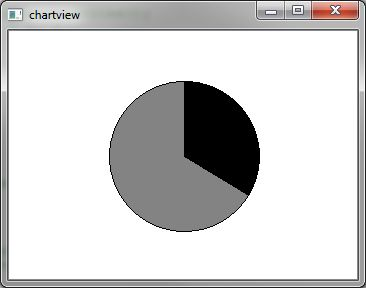
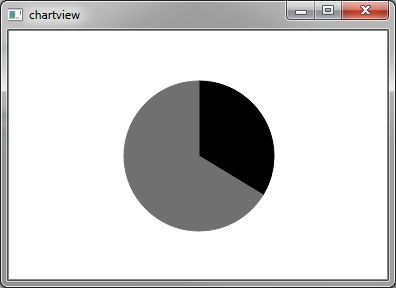
Example on main qdoc page.

diff --git a/example/chartview/main.cpp b/example/chartview/main.cpp
@@ -18,6 +18,7 @@ int main(int argc, char *argv[])
     //! [1]
     // Create chart view
     QChartView *chartView = new QChartView();
+    chartView->setRenderHint(QPainter::Antialiasing);
     // Add series to the chart
     QLineChartSeries *line = new QLineChartSeries();
     line->add(0.0, 0.8);
@@ -33,6 +34,7 @@ int main(int argc, char *argv[])
 
     //! [3]
     // Add pie series
+    // ...
     QPieSeries *pie = new QPieSeries();
     pie->add(3.4, "slice1");
     pie->add(6.7, "slice2");
@@ -41,6 +43,7 @@ int main(int argc, char *argv[])
 
     //! [4]
     // Add scatter series
+    // ...
     QScatterSeries *scatter = new QScatterSeries();
     for (qreal x(0); x < 100; x += 0.5) {
         qreal y = rand() % 100;
@@ -50,6 +53,7 @@ int main(int argc, char *argv[])
     //! [4]
 
     //! [5]
+    // ...
     // Add bar series
     QBarCategory *barCategory = new QBarCategory();
     *barCategory << "Jan"
@@ -65,7 +69,7 @@ int main(int argc, char *argv[])
     //! [5]
 
     QMainWindow w;
-    w.resize(350, 250);
+    w.resize(380, 250);
     w.setCentralWidget(chartView);
     w.show();
 

diff --git a/src/qchartview.cpp b/src/qchartview.cpp
@@ -27,23 +27,6 @@
     QChartSeries and other chart related objects like QChartAxis and QChartLegend. If you want to
     display a chart in your existing QGraphicsScene, you can use the QChart class instead.
 
-    For example, to create a chart with line series using a widget based application:
-    \snippet ../example/chartview/main.cpp 1
-    \image chartview_example.jpg
-
-    Showing a few more series:
-    \snippet ../example/chartview/main.cpp 3
-    \image chartview_example_pie.jpg
-    \snippet ../example/chartview/main.cpp 4
-    \image chartview_example_scatter.jpg
-    \snippet ../example/chartview/main.cpp 5
-    \image chartview_example_bar.jpg
-
-    If you need to give a more professional touch to your chart you can switch to one of the
-    pre-defined themes:
-    \snippet ../example/chartview/main.cpp 2
-    \image chartview_example_theme.jpg
-
     \sa QChart
 */
 
